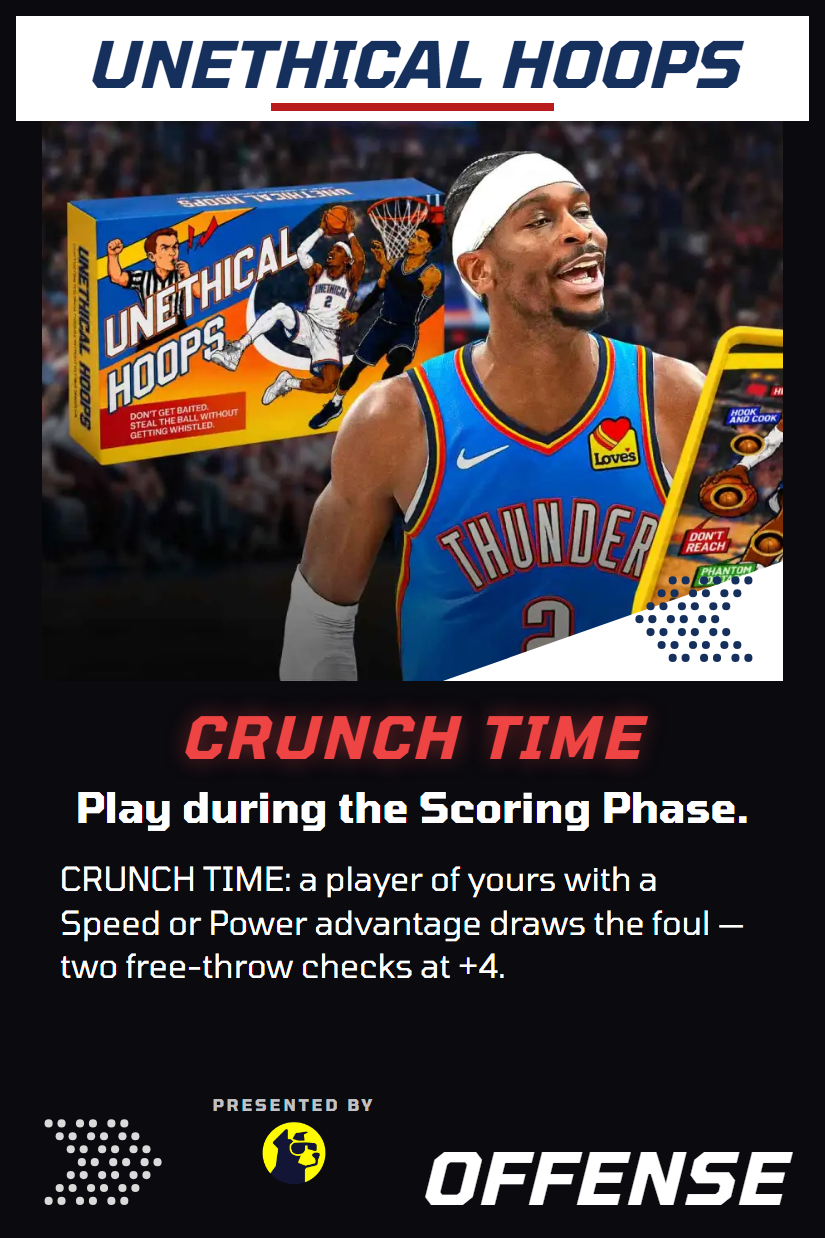
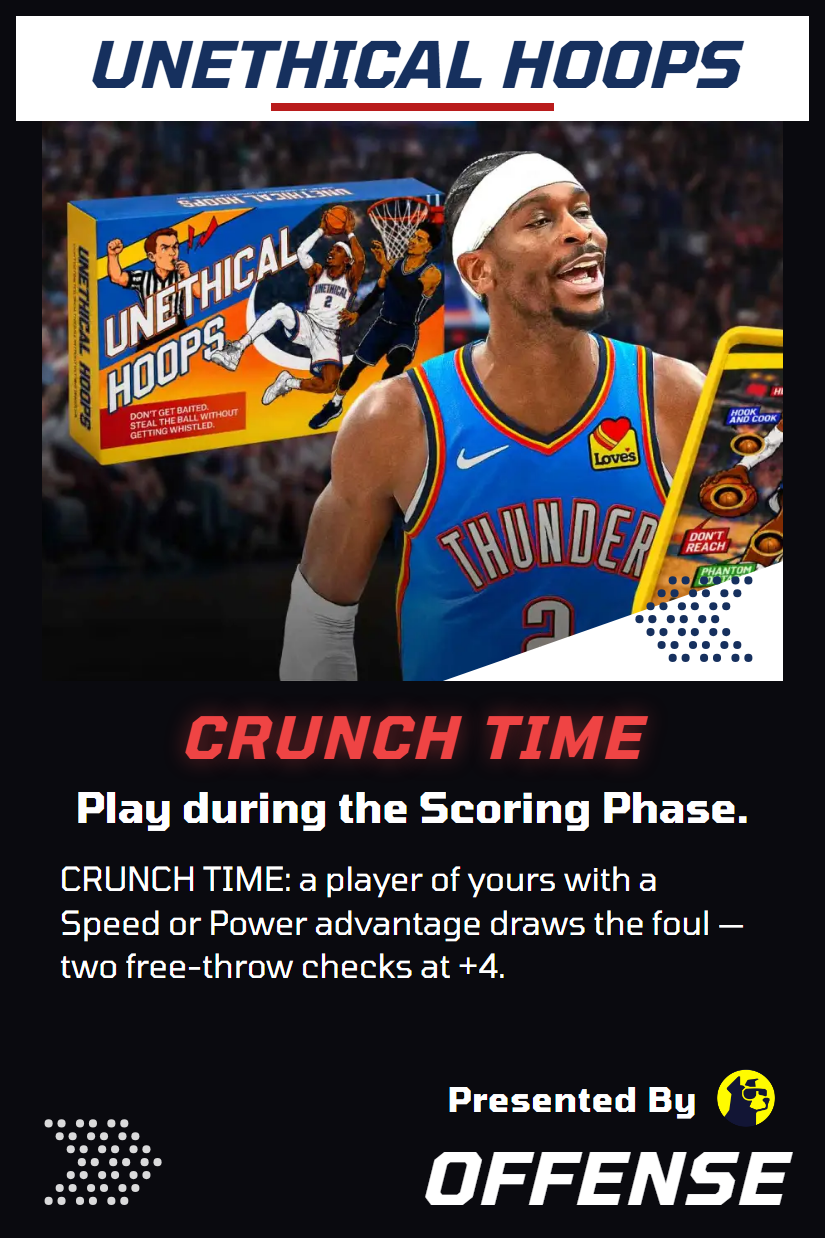
feat(tutorial): the switch lands in section 1, and the coach cancels it in section 2
The user (2026-09-08): after High Screen & Roll "the AI defense just
negated it with zero explanation" — better to keep the coach's hand
clean of cancellers in the first matchup phase and introduce one in the
second, narrated.

- tutorialHands.js (pure, tested): Q1S1 the player holds High Screen &
  Roll and the coach holds no Go Under / Fight Over / Veer Switch; Q1S2
  the coach holds Go Under and only Go Under. No card created or lost.
- Lessons read this section's log (from the last "Lineups locked"):
  s1_switch_landed quotes the swap and says whether the coach passed or
  played something else; s2_switch_again highlights the card;
  s2_switch_cancelled quotes the cancel and its price.
- Strat face: "Presented By" large and horizontal with the logo to its
  right, above the side word (the user's ask); promo face re-exported.

Changed region(s): [[0.5455, 0.8595, 0.9394, 0.9208], [0.2727, 0.8901, 0.4545, 0.9822]]

diff --git a/src/game/tutorialData.js b/src/game/tutorialData.js
@@ -75,6 +75,49 @@ function bestSwap(g) {
   }
   return best;
 }
+// ── The log, read from this section's start ──────────────────────────────────
+// The board logs "Lineups locked — begin placement." every section, which is
+// the anchor: a lesson about THIS section's switch must not fire off last
+// section's line.
+function sectionLog(g) {
+  const log = g.log || [];
+  let start = 0;
+  for (let i = log.length - 1; i >= 0; i -= 1) if (/Lineups locked/.test(log[i].msg)) { start = i; break; }
+  return log.slice(start);
+}
+const lastIn = (entries, re) => { for (let i = entries.length - 1; i >= 0; i -= 1) if (re.test(entries[i].msg)) return entries[i]; return null; };
+const mySwitch = g => { const e = lastIn(sectionLog(g), /^High Screen & Roll: /); return e && e.team === 'A' ? e : null; };
+const theirCancel = g => lastIn(sectionLog(g), /canceled HSR/);
+
+/** The coach's move after my switch this section: a pass, a card, or nothing yet. */
+function coachReply(g) {
+  const entries = sectionLog(g);
+  const at = entries.indexOf(mySwitch(g));
+  if (at < 0) return null;
+  const reply = entries.slice(at + 1).find(e => e.team === 'B');
+  if (!reply) return null;
+  if (/^Passed/.test(reply.msg)) return { kind: 'pass' };
+  return { kind: 'card', name: reply.msg.split(':')[0] };
+}
+function switchLandedText(g) {
+  const e = mySwitch(g);
+  const what = e ? e.msg.replace(/^High Screen & Roll: /, '') : 'the two defenders traded places';
+  const r = coachReply(g);
+  const coach = r?.kind === 'card'
+    ? `The coach played ${r.name} instead of answering it — it holds no canceller.`
+    : 'The coach passed: it had nothing in hand to answer with.';
+  return `Your switch went through — ${what}. ${coach}`;
+}
+function switchCancelledText(g) {
+  const e = theirCancel(g);
+  if (!e) return 'The coach cancelled your switch.';
+  const [card, rest] = e.msg.split(': canceled HSR — ');
+  const lead = `The coach answered with ${card}: your switch is cancelled and the pairings stay as they were placed.`;
+  if (card === 'Go Under') return `${lead} Go Under's price: the player your switch was called for takes a 3PT check at +2 — ${rest}.`;
+  if (card === 'Fight Over') return `${lead} Fight Over's price: ${rest}.`;
+  return `${lead} Veer Switch's twist: the coach chose the new assignments itself — ${rest}.`;
+}
+
 function screenRollText(g) {
   const A = getTeam(g, 'A');
   const lead = 'Your High Screen & Roll is lit. It swaps the defenders of two of your players, so the pairings the placement handed you are not final.';
@@ -130,6 +173,18 @@ export const TUTORIAL_TOOLTIPS = [
     priority: 90,
     // A's answering turns: step 3 (row 2) and step 7 (row 4).
     trigger: { phase: 'matchup_strats', condition: (g) => g.quarter === 1 && g.section === 1 && (step(g) === 3 || step(g) === 7) },
+  },
+
+  // Section 1's switch LANDS — the coach was dealt no canceller (tutorialHands.js)
+  {
+    id: 's1_switch_landed',
+    text: switchLandedText,
+    detail: "A defence holding Go Under, Fight Over or Veer Switch can cancel a switch, each at a price. Next section the coach will be holding one — watch what it does.",
+    section: 1,
+    priority: 95,
+    // Fires once the coach has replied to the switch — by passing or by playing
+    // any card that is not a canceller — and the turn is back with the player.
+    trigger: { phase: 'matchup_strats', condition: (g) => g.quarter === 1 && g.section === 1 && step(g) >= 10 && Boolean(mySwitch(g)) && !theirCancel(g) && Boolean(coachReply(g)) && g.matchupTurn === 'A' },
   },
 
   // Matchup card window — the switch, and why
@@ -192,6 +247,24 @@ export const TUTORIAL_TOOLTIPS = [
     section: 2,
     priority: 80,
     trigger: { phase: 'draft', condition: (g) => g.quarter === 1 && g.section === 2 && g.draft.step === 0 },
+  },
+  // Section 2: the same switch, and the coach's answer to it
+  {
+    id: 's2_switch_again',
+    text: "Play your High Screen & Roll again. This time the coach is holding a canceller — see what it does with it.",
+    detail: null,
+    highlight: '[data-card-id="high_screen_roll"]',
+    section: 2,
+    priority: 100,
+    trigger: { phase: 'matchup_strats', condition: (g) => g.quarter === 1 && g.section === 2 && step(g) >= 10 && !mySwitch(g) && getTeam(g, 'A').hand.includes('high_screen_roll') },
+  },
+  {
+    id: 's2_switch_cancelled',
+    text: switchCancelledText,
+    detail: "One canceller per switch. When you hold Go Under, Fight Over or Veer Switch yourself, they light up the moment the coach switches.",
+    section: 2,
+    priority: 100,
+    trigger: { condition: (g) => g.quarter === 1 && g.section === 2 && Boolean(theirCancel(g)) },
   },
   {
     id: 's2_assists_intro',

diff --git a/src/components/TutorialGame.jsx b/src/components/TutorialGame.jsx
@@ -4,6 +4,8 @@ import { execCard, resolvePendingShotCheck } from '../game/execCard.js';
 import { CARD_MAP } from '../game/cards.js';
 import { aiDraftPick, aiScoringDecision, aiRollDecision, aiTurn } from '../game/ai.js';
 import { TUTORIAL_TOOLTIPS, TUTORIAL_ROSTER_A_IDS, TUTORIAL_ROSTER_B_IDS } from '../game/tutorialData.js';
+// The hands are shaped per section so each lesson has its prop — see the file.
+import { teachingHands } from '../game/tutorialHands.js';
 import TutorialOverlay from './game/TutorialOverlay.jsx';
 import CourtBoard from './game/CourtBoard.jsx';
 import Scoreboard from './game/Scoreboard.jsx';
@@ -16,7 +18,7 @@ function gameReducer(state, action) {
   switch (action.type) {
     case 'SET':         return action.game;
     case 'ROLL':        return doRoll(state, action.teamKey, action.idx);
-    case 'END_SECTION': return endSection(state);
+    case 'END_SECTION': return teachingHands(endSection(state));
     case 'EXEC_CARD': {
       const { game, ok, msg } = execCard(state, action.teamKey, action.cardId, action.opts || {});
       if (!ok) { console.warn('TutorialGame EXEC_CARD failed:', msg); return state; }
@@ -43,27 +45,6 @@ function resolveRoster(ids) {
   return ids.map(id => CARD_MAP[id]).filter(Boolean);
 }
 
-// ── The lesson needs its prop ───────────────────────────────────────────────
-//
-// The user (2026-09-08): a switching card "should happen in every tutorial,
-// which shows how you can alter matchups". A random seven holds High Screen &
-// Roll about half the time; the tutorial hand always does. One copy comes up
-// from the deck (or is added if the deck has none), and the card it displaces
-// goes to the bottom — drawCards pops from the END, so the bottom is index 0.
-const TEACHING_CARD = 'high_screen_roll';
-function withTeachingHand(g) {
-  const t = g.teamA;
-  if (t.hand.includes(TEACHING_CARD)) return g;
-  const deck = [...t.deck];
-  const at = deck.indexOf(TEACHING_CARD);
-  if (at >= 0) deck.splice(at, 1);
-  const hand = [...t.hand];
-  const displaced = hand.length >= 7 ? hand.pop() : null;
-  hand.push(TEACHING_CARD);
-  if (displaced) deck.unshift(displaced);
-  return { ...g, teamA: { ...t, hand, deck } };
-}
-
 // ── AI delay (ms) ───────────────────────────────────────────────────────────
 const AI_DELAY = 800;
 
@@ -80,7 +61,7 @@ export default function TutorialGame({ onExit }) {
   // Initialize game on mount
   useEffect(() => {
     mounted.current = true;
-    dispatch({ type: 'SET', game: withTeachingHand(newGame(rosterA, rosterB)) });
+    dispatch({ type: 'SET', game: teachingHands(newGame(rosterA, rosterB)) });
     return () => { mounted.current = false; };
   }, []); // eslint-disable-line react-hooks/exhaustive-deps
 

diff --git a/src/game/tutorialHands.js b/src/game/tutorialHands.js
@@ -1,0 +1,68 @@
+// THE TUTORIAL'S HANDS ARE SHAPED, so the lesson has its props.
+//
+// Section 1: the player holds High Screen & Roll and the coach holds NO
+// canceller, so the switch lands and the player sees what a switch does.
+// Section 2: the player holds it again and the coach holds Go Under (and no
+// other canceller), so the switch is cancelled and the player sees what a
+// canceller does — one lesson, then its counter. The user, 2026-09-08:
+// "not give the AI a switch reaction card in the first matchup phase, but
+// introduce it in the second phase and show that the opposing coach
+// canceled it."
+//
+// Pure: takes a game, returns a game. No card is created or lost — a card
+// pulled into a hand comes off the deck, a card pushed out goes to the deck.
+// `drawCards` pops from the END of the deck, so "next to be drawn" is the end
+// and "the bottom" is index 0.
+
+export const TEACHING_CARD = 'high_screen_roll';
+export const CANCELLERS = ['go_under', 'fight_over', 'veer_switch'];
+export const LESSON_CANCELLER = 'go_under';
+const HAND = 7;
+
+/** `id` in the hand, from the deck if it is there, displacing the last card to the bottom. */
+function ensureInHand(team, id) {
+  if (team.hand.includes(id)) return team;
+  const deck = [...team.deck];
+  const at = deck.indexOf(id);
+  if (at >= 0) deck.splice(at, 1);
+  const hand = [...team.hand];
+  const displaced = hand.length >= HAND ? hand.pop() : null;
+  hand.push(id);
+  if (displaced) deck.unshift(displaced);
+  return { ...team, hand, deck };
+}
+
+/**
+ * None of `ids` in the hand: they go to the END of the deck (drawn back
+ * soonest), and the hand refills to seven from the deck, skipping any of
+ * `ids` it meets on the way (those go to the bottom).
+ */
+function withoutInHand(team, ids) {
+  const out = new Set(ids);
+  const removed = team.hand.filter(id => out.has(id));
+  if (!removed.length) return team;
+  const hand = team.hand.filter(id => !out.has(id));
+  const deck = [...team.deck];
+  while (hand.length < HAND && deck.length) {
+    const next = deck.pop();
+    if (out.has(next)) deck.unshift(next);
+    else hand.push(next);
+    if (deck.length && deck.every(id => out.has(id))) break;
+  }
+  deck.push(...removed);
+  return { ...team, hand, deck };
+}
+
+/** The shaped game for Q1 sections 1 and 2; any other section unchanged. */
+export function teachingHands(g) {
+  if (!g || g.quarter !== 1 || (g.section !== 1 && g.section !== 2)) return g;
+  let teamA = ensureInHand(g.teamA, TEACHING_CARD);
+  let teamB = g.teamB;
+  if (g.section === 1) {
+    teamB = withoutInHand(teamB, CANCELLERS);
+  } else {
+    teamB = withoutInHand(teamB, CANCELLERS.filter(c => c !== LESSON_CANCELLER));
+    teamB = ensureInHand(teamB, LESSON_CANCELLER);
+  }
+  return { ...g, teamA, teamB };
+}

diff --git a/src/game/tutorialLessons.test.js b/src/game/tutorialLessons.test.js
@@ -77,6 +77,40 @@ describe('the High Screen & Roll lesson', () => {
     expect(tip('s1_matchup_window').highlight).toBe('[data-card-id="high_screen_roll"]');
   });
 
+  it('narrates the switch that landed, and the switch that was cancelled, from this section\'s log only', () => {
+    const g = midPlacement();
+    g.placementStep = 10; g.matchupTurn = 'A'; g.matchupPasses = 1;
+    g.log = [
+      { team: null, msg: 'Lineups locked — begin placement.' },
+      { team: 'A', msg: 'High Screen & Roll: Tatum now guarded by Giannis, Edwards now guarded by Mobley' },
+      { team: 'B', msg: 'Passed.' },
+    ];
+    const live = () => TUTORIAL_TOOLTIPS.filter(t => (!t.trigger.phase || t.trigger.phase === g.phase) && t.trigger.condition(g)).map(t => t.id);
+    expect(live()).toContain('s1_switch_landed');
+    expect(text('s1_switch_landed', g)).toBe('Your switch went through — Tatum now guarded by Giannis, Edwards now guarded by Mobley. The coach passed: it had nothing in hand to answer with.');
+
+    // The coach may answer with some other card instead of passing — still landed.
+    g.log[2] = { team: 'B', msg: 'Stagger Action: Shai & Luka screen for each other' };
+    g.matchupPasses = 0;
+    expect(live()).toContain('s1_switch_landed');
+    expect(text('s1_switch_landed', g)).toMatch(/The coach played Stagger Action instead of answering it — it holds no canceller\.$/);
+    // Before the coach has replied at all, nothing yet.
+    g.log.pop();
+    expect(live()).not.toContain('s1_switch_landed');
+
+    // Section 2: last section's switch line must not count; the cancel must.
+    g.section = 2; g.matchupPasses = 0;
+    g.log.push({ team: null, msg: 'Lineups locked — begin placement.' });
+    getTeam(g, 'A').hand = ['high_screen_roll', 'extra_pass'];
+    expect(live()).toContain('s2_switch_again');
+    expect(live()).not.toContain('s2_switch_cancelled');
+    g.log.push({ team: 'A', msg: 'High Screen & Roll: Tatum now guarded by Giannis, Edwards now guarded by Mobley' });
+    g.log.push({ team: 'B', msg: 'Go Under: canceled HSR — Tatum 3PT check: 🎲9 +2 card +1 3PT = 12 vs 15 → MISS' });
+    expect(live()).not.toContain('s2_switch_again');
+    expect(live()).toContain('s2_switch_cancelled');
+    expect(text('s2_switch_cancelled', g)).toBe("The coach answered with Go Under: your switch is cancelled and the pairings stay as they were placed. Go Under's price: the player your switch was called for takes a 3PT check at +2 — Tatum 3PT check: 🎲9 +2 card +1 3PT = 12 vs 15 → MISS.");
+  });
+
   it('says to hold it when no swap gains', () => {
     const g = midPlacement();
     const A = getTeam(g, 'A'); const B = getTeam(g, 'B');

diff --git a/src/game/tutorialHands.test.js b/src/game/tutorialHands.test.js
@@ -1,0 +1,51 @@
+// The tutorial's shaped hands: a switch for the player every early section,
+// no canceller for the coach in section 1, Go Under and only Go Under in
+// section 2 — and never a card created or lost.
+import { describe, it, expect } from 'vitest';
+import { newGame } from './engine.js';
+import { CARDS } from './cards.js';
+import { teachingHands, TEACHING_CARD, CANCELLERS, LESSON_CANCELLER } from './tutorialHands.js';
+
+const multiset = t => [...t.hand, ...t.deck].sort().join(',');
+
+function fresh(section = 1) {
+  const g = newGame(CARDS.slice(0, 10), CARDS.slice(10, 20));
+  g.quarter = 1; g.section = section;
+  return g;
+}
+
+describe('teachingHands', () => {
+  it('section 1: the player holds the switch, the coach holds no canceller, seven each', () => {
+    for (let n = 0; n < 8; n += 1) {
+      const g = fresh(1);
+      const before = { A: multiset(g.teamA), B: multiset(g.teamB) };
+      const s = teachingHands(g);
+      expect(s.teamA.hand).toContain(TEACHING_CARD);
+      expect(s.teamB.hand.some(id => CANCELLERS.includes(id))).toBe(false);
+      expect(s.teamA.hand).toHaveLength(7);
+      expect(s.teamB.hand).toHaveLength(7);
+      expect(multiset(s.teamA)).toBe(before.A);
+      expect(multiset(s.teamB)).toBe(before.B);
+    }
+  });
+
+  it('section 2: the player holds the switch, the coach holds Go Under and no other canceller', () => {
+    for (let n = 0; n < 8; n += 1) {
+      const g = fresh(2);
+      const before = multiset(g.teamB);
+      const s = teachingHands(g);
+      expect(s.teamA.hand).toContain(TEACHING_CARD);
+      expect(s.teamB.hand).toContain(LESSON_CANCELLER);
+      expect(s.teamB.hand.some(id => CANCELLERS.includes(id) && id !== LESSON_CANCELLER)).toBe(false);
+      expect(s.teamB.hand.length).toBeLessThanOrEqual(7);
+      expect(multiset(s.teamB)).toBe(before);
+    }
+  });
+
+  it('touches nothing after section 2', () => {
+    const g = fresh(3);
+    expect(teachingHands(g)).toBe(g);
+    const q2 = fresh(1); q2.quarter = 2;
+    expect(teachingHands(q2)).toBe(q2);
+  });
+});

diff --git a/src/cards/StratTemplate.jsx b/src/cards/StratTemplate.jsx
@@ -162,21 +162,24 @@ export default function StratTemplate({
 
       <div className={styles.footer}>
         <ChevronDots direction="right" className={styles.footChevrons} />
-        {s.presentedBy ? (
-          // THE SPONSOR LINE. The user (2026-09-08) dropped the Underdog logo
-          // "for the little 'presented by' part" of Unethical Hoops; the logo
-          // lives in public/logos/ with the team crests and is reached the way
-          // the app reaches those, under Vite's base.
-          <div className={styles.presented}>
-            <div className={styles.presentedLabel}>PRESENTED BY</div>
-            <img
-              className={styles.presentedLogo}
-              src={`${import.meta.env.BASE_URL}logos/${s.presentedBy.logo}`}
-              alt={s.presentedBy.name}
-            />
-          </div>
-        ) : null}
-        <div className={styles.side}>{s.side === 'def' ? 'DEFENSE' : 'OFFENSE'}</div>
+        <div className={styles.footRight}>
+          {s.presentedBy ? (
+            // THE SPONSOR LINE. The user (2026-09-08) dropped the Underdog logo
+            // "for the little 'presented by' part" of Unethical Hoops, then asked
+            // for it "in larger typeface above OFFENSE, running horizontal with
+            // the logo to the right". The logo lives in public/logos/ with the
+            // team crests and is reached the way the app reaches those.
+            <div className={styles.presented}>
+              <span className={styles.presentedLabel}>Presented By</span>
+              <img
+                className={styles.presentedLogo}
+                src={`${import.meta.env.BASE_URL}logos/${s.presentedBy.logo}`}
+                alt={s.presentedBy.name}
+              />
+            </div>
+          ) : null}
+          <div className={styles.side}>{s.side === 'def' ? 'DEFENSE' : 'OFFENSE'}</div>
+        </div>
       </div>
     </div>
   );

diff --git a/src/cards/StratTemplate.module.css b/src/cards/StratTemplate.module.css
@@ -138,23 +138,32 @@
   line-height: 1;
 }
 
-/* The sponsor line: a small caption over a logo, sitting between the
-   chevrons and the side word on the footer's baseline. */
-.presented {
+/* The footer's right column: the sponsor line (when there is one) over
+   the side word, both flush right. */
+.footRight {
+  margin-left: auto;
   display: flex;
   flex-direction: column;
+  align-items: flex-end;
+}
+
+/* The sponsor line: "Presented By" running horizontally with the logo to
+   its right, sitting above the side word. */
+.presented {
+  display: flex;
+  flex-direction: row;
   align-items: center;
-  gap: 4px;
-  margin: 0 auto 22px;
+  gap: 16px;
+  margin: 0 6px 8px 0;
 }
 .presentedLabel {
-  font-size: 16px;
-  font-weight: 700;
-  letter-spacing: 3px;
-  opacity: 0.75;
+  font-size: 34px;
+  font-weight: 800;
+  letter-spacing: 1px;
+  line-height: 1;
 }
 .presentedLogo {
-  height: 72px;
+  height: 66px;
   width: auto;
   display: block;
 }
